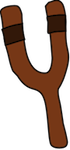
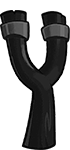
feat: new slingshot

diff --git a/prac1/js/game.js b/prac1/js/game.js
@@ -412,7 +412,7 @@ var game = {
     }
   },
   drawSlingshotBand: function () {
-    game.context.strokeStyle = 'rgb(68,31,11)'; // Color marrón oscuro
+    game.context.strokeStyle = 'rgb(90,90,90)'; // Color gris
     game.context.lineWidth = 6; // Dibuja una línea gruesa
 
     // Utilizar el ángulo y el radio del héroe para calcular el centro del héroe
@@ -431,7 +431,7 @@ var game = {
     // Iniciar la línea desde la parte superior de la honda (la parte trasera)
     game.context.moveTo(
       game.slingshotX + 50 - game.offsetLeft,
-      game.slingshotY + 25
+      game.slingshotY + 30
     );
 
     // Dibuja línea al centro del héroe
